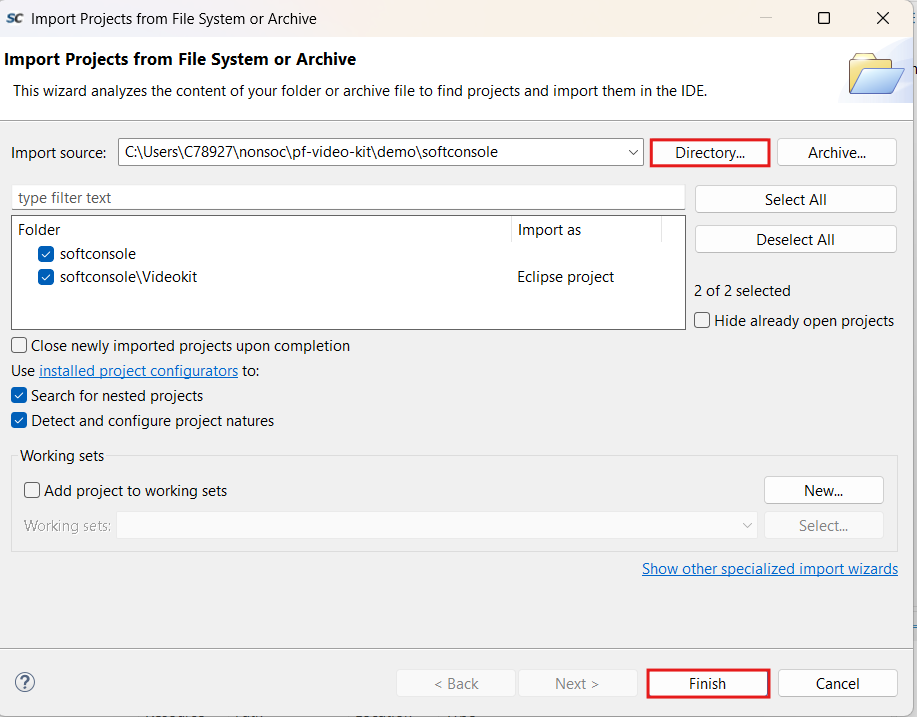
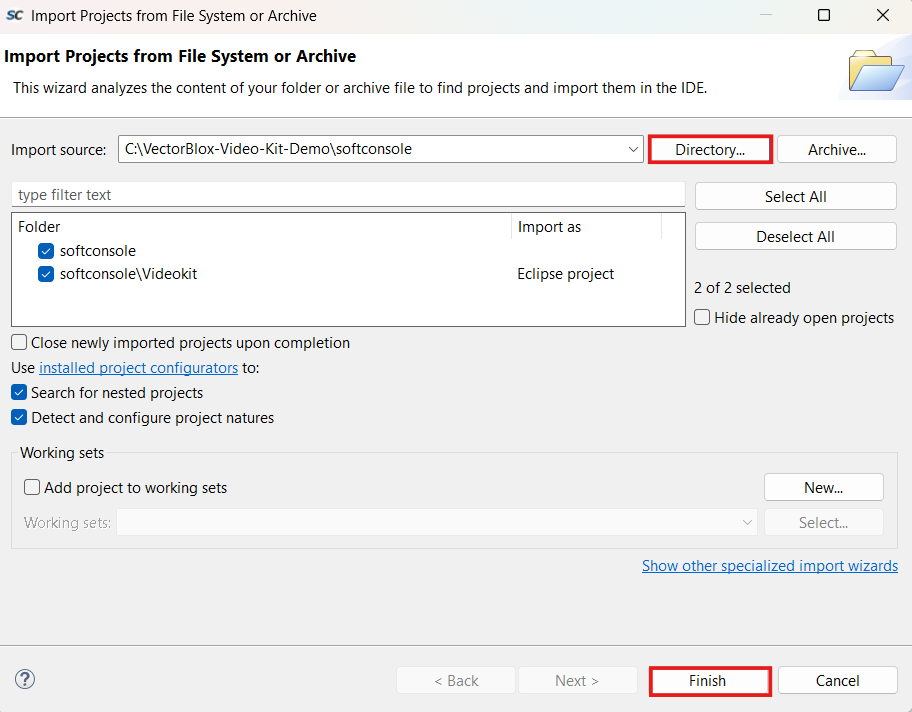
img update

diff --git a/docs/modifying_mi-v_software.md b/docs/modifying_mi-v_software.md
@@ -34,7 +34,7 @@ A SoftConsole workspace is a folder where SoftConsole stores its settings and th
 
 Alternatively, select **File > Open Projects from File System...**, click **Directory...**, and select the `softconsole` directory. SoftConsole finds the Videokit project inside it. Ensure `softconsole\Videokit` is checked, then click **Finish**.
 
-<img src="./images/softconsole_import_projects.png" style="width:25%; height:auto;">
+<img src="./images/softconsole_import_projects.png" style="width:65%; height:auto;">
 
 > **Reference Image:** Importing the Videokit project with **Open Projects from File System**. Click **Directory...** to select the `softconsole` directory, then click **Finish**.
 
@@ -45,7 +45,7 @@ Alternatively, select **File > Open Projects from File System...**, click **Dire
 1. Make the code changes (for example, in `main.c`) and save them.
 2. Set the build configuration to `Release`: right-click the **Videokit** project and select **Build Configurations > Set Active > Release**.
 
-   <img src="./images/softconsole_set_release_build.png" alt="Build Configurations, Set Active, Release menu in SoftConsole" style="width:20%; height:auto;">
+   <img src="./images/softconsole_set_release_build.png" alt="Build Configurations, Set Active, Release menu in SoftConsole" style="width:55%; height:auto;">
 
    > **Reference Image:** Right-click the **Videokit** project, then select **Build Configurations > Set Active > Release**. A check mark appears next to **Release** when it is the active configuration.
 
